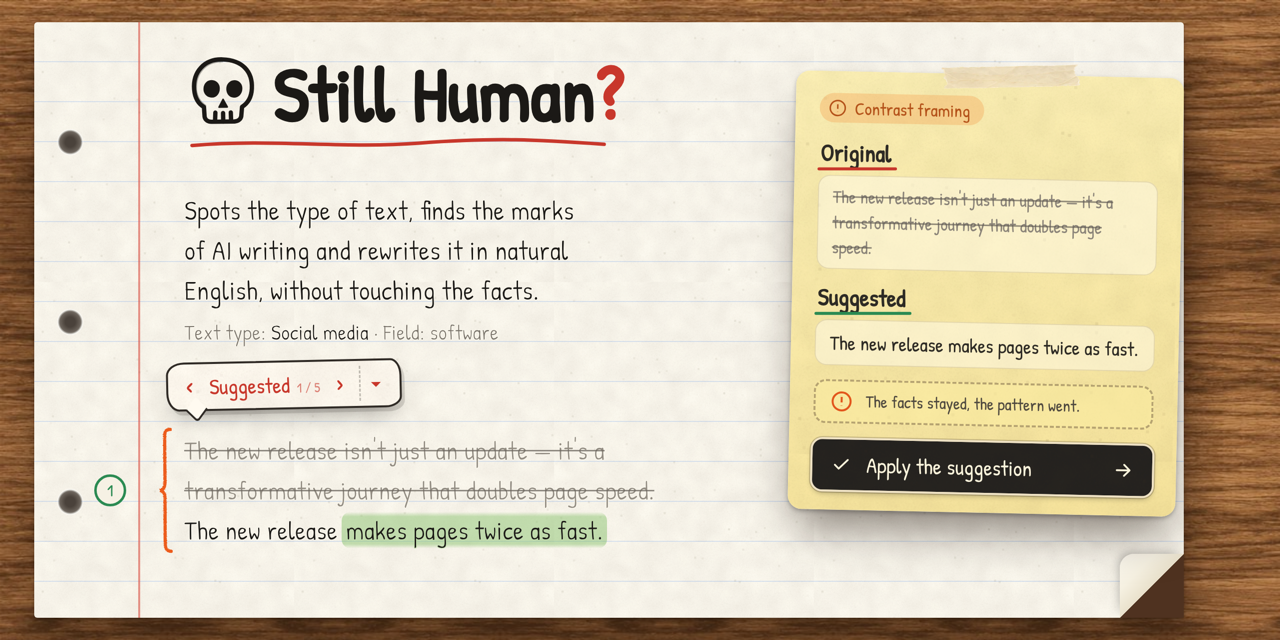
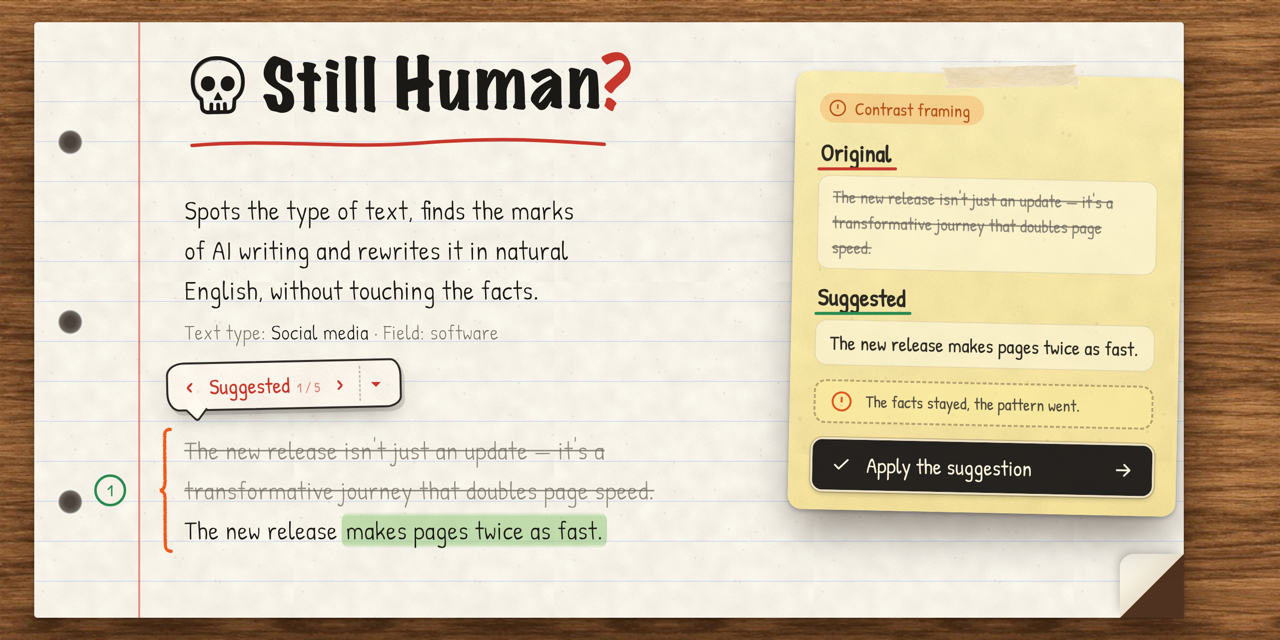
Preview on first use, then as the user chose
The first time the skill is used it opens the review page without asking, and a taped note on the page asks how it should open from now on: every time, ask first (opening long texts or many changes straight away), or only when asked, which shows a chat box typing the ways to ask. A choice for the current chat alone is offered too. The choice lives in the preferences file, where step 5 reads it with bridge.py preview, and the page's settings have a Preview line to change it. The page title is back in Marker Felt, on the page, the covers and the screenshots.

Changed region(s): [[0.125, 0.0625, 0.5, 0.2188]]

diff --git a/notebook/template.html b/notebook/template.html
@@ -452,7 +452,8 @@ body { background: radial-gradient(ellipse at 40% 30%, rgba(255, 214, 160, .10),
 .shadow { display: none; }
 
 /* header */
-.product { font: 700 54px/1.05 var(--font-hand); transform: none; letter-spacing: .2px; -webkit-text-stroke: .6px currentColor; }
+/* the title keeps its felt-tip marker, the product's own lettering; the rest of the page is in the handwriting */
+.product { font: 700 50px/1.1 var(--hand-title); transform: rotate(-.6deg); letter-spacing: .3px; }
 .product .skull { width: 1.05em; height: 1.12em; transform: none; }
 .underline-squiggle { width: 410px; height: 12px; margin: 0 0 14px 6px; opacity: .9; }
 .icon-button { color: #5e5a54; opacity: .75; }
@@ -575,6 +576,45 @@ body { background: radial-gradient(ellipse at 40% 30%, rgba(255, 214, 160, .10),
   .product { font-size: 32px; }
   .margin-note { display: none; }
 }
+/* the first page: a taped note asks how the preview should open from now on */
+.welcome { position: fixed; inset: 0; z-index: 70; display: flex; align-items: safe center; justify-content: center; padding: 30px 20px;
+  overflow-y: auto; background: rgba(32, 20, 10, .38); }
+.welcome[hidden] { display: none; }
+.welcome-card { position: relative; width: min(540px, 100%); flex: none; padding: 28px 30px 24px; border-radius: 14px; font: 19px/1.4 var(--ui-font);
+  color: #2d2a24; background-image: var(--grain), linear-gradient(170deg, #fbefb4 0%, #f6e39b 100%);
+  box-shadow: 0 2px 4px rgba(0, 0, 0, .25), 0 30px 60px -12px rgba(20, 8, 0, .6); transform: rotate(-.6deg); animation: welcome-in .28s cubic-bezier(.2, .7, .2, 1); }
+.welcome-card::before { content: ""; position: absolute; top: -15px; left: 50%; width: 150px; height: 34px; transform: translateX(-50%) rotate(2deg);
+  background: var(--tape-image, linear-gradient(180deg, rgba(232, 222, 196, .92), rgba(214, 203, 175, .9))) center / 100% 100% no-repeat; }
+.welcome-close { position: absolute; top: 12px; right: 16px; border: 0; background: none; font: 300 32px/1 var(--ui-font); color: #2d2a24; cursor: pointer; }
+.welcome .card-h { display: table; position: relative; margin: 4px 40px 10px 2px; font: 700 26px/1.15 var(--ui-font); }
+.welcome .card-h::after { content: ""; position: absolute; left: -3px; right: -6px; bottom: -4px; height: 3px; border-radius: 3px; background: #c8372b; transform: rotate(-1.2deg); }
+.welcome-intro { margin: 14px 0 16px; color: #4f493f; }
+.welcome-options { display: grid; gap: 10px; }
+.welcome-option { display: grid; gap: 2px; text-align: left; padding: 10px 16px; border-radius: 12px; border: 2px solid #2b2621; background: #f7ecd2 var(--grain);
+  color: #2d2a24; cursor: pointer; font: inherit; }
+.welcome-option b { font: 700 22px/1.2 var(--ui-font); }
+.welcome-option span { font-size: 16.5px; line-height: 1.35; color: rgba(43, 41, 37, .72); }
+.welcome-option:hover, .welcome-option:focus-visible { background-color: #f1e3c2; outline: none; box-shadow: 0 0 0 3px rgba(43, 41, 37, .15); }
+.welcome-chat { margin: 16px 0 0; font-size: 16.5px; color: rgba(43, 41, 37, .72); }
+.welcome-chat button { border: 0; background: none; padding: 0; font: inherit; color: #2c5fc9; text-decoration: underline; text-underline-offset: 3px; cursor: pointer; }
+.chat-demo { display: flex; align-items: center; min-height: 58px; margin: 0 0 12px; padding: 10px 10px 10px 18px; border-radius: 18px; background: #fffdf7;
+  border: 1.6px solid rgba(43, 41, 37, .3); box-shadow: inset 0 1px 3px rgba(0, 0, 0, .08); font: 23px/1.3 var(--ui-font); }
+.chat-demo .caret { width: 2px; height: 1.1em; margin-left: 1px; background: #2d2a24; animation: caret 1s steps(1) infinite; }
+.chat-demo .send { display: grid; place-items: center; width: 34px; height: 34px; margin-left: auto; border-radius: 50%; background: #2b2a27; color: #fbf4dc; }
+.chat-demo .send svg { width: 18px; height: 18px; fill: none; stroke: currentColor; stroke-width: 2.2; stroke-linecap: round; stroke-linejoin: round; }
+.welcome-examples { display: flex; flex-wrap: wrap; gap: 8px; margin: 0 0 14px; }
+.welcome-examples span { padding: 3px 12px; border-radius: 999px; background: rgba(255, 252, 236, .7); border: 1px solid rgba(120, 96, 40, .25); font-size: 18px; }
+.welcome-note { margin: 0 0 18px; font-size: 16px; color: rgba(43, 41, 37, .72); }
+.welcome-done { display: block; width: 100%; padding: 12px 18px; border: 0; border-radius: 10px; cursor: pointer; color: #fbf4dc; font: 22px/1.2 var(--ui-font);
+  background: #24221f var(--grain); box-shadow: 0 0 0 2px #efe2c4, 0 0 0 3px rgba(60, 48, 30, .25), 0 3px 6px rgba(0, 0, 0, .3); }
+.welcome-done:hover { background-color: #34312c; }
+.welcome-done:focus { outline: none; }
+.welcome-done:focus-visible { box-shadow: 0 0 0 2px #efe2c4, 0 0 0 5px rgba(43, 41, 37, .35); }
+@keyframes caret { 50% { opacity: 0; } }
+@keyframes welcome-in { from { opacity: 0; transform: translateY(10px) rotate(-.6deg); } }
+@media (prefers-reduced-motion: reduce) { .welcome-card, .chat-demo .caret { animation: none; } }
+@media print { .welcome { display: none !important; } }
+
 /* the texture pack: tape and highlighter images when the page has them, drawn shapes when not */
 .sticky-note::before { background: var(--tape-image, linear-gradient(180deg, rgba(232, 222, 196, .92), rgba(214, 203, 175, .9))) center / 100% 100% no-repeat; }
 .divider { background: var(--marker-image, none) center / 100% 15px no-repeat; }
@@ -720,6 +760,14 @@ body { background: radial-gradient(ellipse at 40% 30%, rgba(255, 214, 160, .10),
         <button class="option" type="button" data-theme-pick="dark">{{settings.theme_dark}}</button>
       </div>
     </div>
+    <div class="setting-row" id="preview-section" hidden>
+      <span class="setting-name">{{settings.preview}}</span>
+      <div class="setting-options">
+        <button class="option" type="button" data-preview-pick="always">{{settings.preview_always}}</button>
+        <button class="option" type="button" data-preview-pick="ask">{{settings.preview_ask}}</button>
+        <button class="option" type="button" data-preview-pick="request">{{settings.preview_request}}</button>
+      </div>
+    </div>
     <div class="setting-row" id="engine-section" hidden>
       <span class="setting-name">{{settings.suggestions}}</span>
       <div class="setting-options">
@@ -733,6 +781,29 @@ body { background: radial-gradient(ellipse at 40% 30%, rgba(255, 214, 160, .10),
     <div class="setting-row full">
       <span class="setting-name">{{settings.about}}</span>
       <p class="setting-note" id="meta"></p>
+    </div>
+  </div>
+  <div class="welcome" id="welcome" role="dialog" aria-modal="true" aria-labelledby="welcome-title" hidden>
+    <div class="welcome-card">
+      <button class="welcome-close" id="welcome-close" type="button" aria-label="{{common.close}}">×</button>
+      <div id="welcome-ask">
+        <h2 class="card-h" id="welcome-title">{{welcome.title}}</h2>
+        <p class="welcome-intro">{{welcome.intro}}</p>
+        <div class="welcome-options">
+          <button class="welcome-option" type="button" data-preview-choice="always"><b>{{welcome.always}}</b><span>{{welcome.always_hint}}</span></button>
+          <button class="welcome-option" type="button" data-preview-choice="ask"><b>{{welcome.ask}}</b><span>{{welcome.ask_hint}}</span></button>
+          <button class="welcome-option" type="button" data-preview-choice="request"><b>{{welcome.request}}</b><span>{{welcome.request_hint}}</span></button>
+        </div>
+        <p class="welcome-chat" id="welcome-chat" hidden>{{welcome.chat}} <button type="button" data-preview-chat="on">{{welcome.chat_on}}</button> · <button type="button" data-preview-chat="off">{{welcome.chat_off}}</button></p>
+      </div>
+      <div id="welcome-how" hidden>
+        <h2 class="card-h">{{welcome.how_title}}</h2>
+        <p class="welcome-intro">{{welcome.how_intro}}</p>
+        <div class="chat-demo" aria-hidden="true"><span id="chat-typed"></span><span class="caret"></span><span class="send"><svg viewBox="0 0 24 24"><path d="M12 19V5M6 11l6-6 6 6"/></svg></span></div>
+        <div class="welcome-examples" id="welcome-examples"></div>
+        <p class="welcome-note">{{welcome.how_note}}</p>
+        <button class="welcome-done" id="welcome-done" type="button">{{welcome.done}}</button>
+      </div>
     </div>
   </div>
   <footer class="page-foot" id="page-foot" aria-label="{{dock.label}}">
@@ -790,7 +861,8 @@ body { background: radial-gradient(ellipse at 40% 30%, rgba(255, 214, 160, .10),
 
   // preferences (paper, font, theme, suggestion engine) belong to the user, not the document: valid on every page and live session
   var PREF_KEY = PRODUCT.slug + ":preferences";
-  var VALID = { paper: ["lined", "grid", "plain"], type: ["hand", "airy", "soft", "book"], theme: ["", "light", "dark"], engine: ["auto", "agent", "fork", "stateless"] };
+  var VALID = { paper: ["lined", "grid", "plain"], type: ["hand", "airy", "soft", "book"], theme: ["", "light", "dark"], engine: ["auto", "agent", "fork", "stateless"],
+    preview: ["always", "ask", "request"] };
   function cleanPrefs(p) {
     var c = {};
     if (!p || typeof p !== "object") return c;
@@ -2010,7 +2082,62 @@ body { background: radial-gradient(ellipse at 40% 30%, rgba(255, 214, 160, .10),
   }
   document.querySelectorAll("[data-theme-pick]").forEach(function (b) { b.addEventListener("click", function () { prefs.theme = b.getAttribute("data-theme-pick"); savePrefs(); applyTheme(); }); });
 
+  // how the page opens after a rewrite. The agent reads it from the preferences file (bridge.py preview) before it opens the
+  // next page, so it is only offered with the bridge, which writes that file
+  function applyPreview() { markPicked("data-preview-pick", prefs.preview || ""); }
+  document.querySelectorAll("[data-preview-pick]").forEach(function (b) {
+    b.addEventListener("click", function () { prefs.preview = b.getAttribute("data-preview-pick"); savePrefs(); applyPreview(); });
+  });
+  if (LIVE) $("preview-section").hidden = false;
+  applyPreview();
+  // the first page opens on its own and asks once. Closing it without an answer keeps the old way: ask in the chat
+  var welcome = $("welcome"), typing = null;
+  function closeWelcome() {
+    if (welcome.hidden) return;
+    if (!prefs.preview) { prefs.preview = "ask"; savePrefs(); applyPreview(); }
+    welcome.hidden = true; clearTimeout(typing);
+  }
+  // "only when I ask": a chat box types the ways to ask, one after the other
+  function showHow() {
+    $("welcome-ask").hidden = true; $("welcome-how").hidden = false;
+    var examples = msg("welcome.examples").split("|"), typed = $("chat-typed"), list = $("welcome-examples");
+    list.textContent = "";
+    examples.forEach(function (x) { list.appendChild(el("span", "", x)); });
+    $("welcome-done").focus();
+    if (window.matchMedia && matchMedia("(prefers-reduced-motion: reduce)").matches) { typed.textContent = examples[0]; return; }
+    var i = 0, n = 0, erasing = false;
+    (function tick() {
+      var word = examples[i];
+      n += erasing ? -1 : 1;
+      typed.textContent = word.slice(0, n);
+      if (!erasing && n === word.length) { erasing = true; typing = setTimeout(tick, 1600); }
+      else if (erasing && n === 0) { erasing = false; i = (i + 1) % examples.length; typing = setTimeout(tick, 500); }
+      else typing = setTimeout(tick, erasing ? 32 : 80 + Math.random() * 70);
+    })();
+  }
+  document.querySelectorAll("[data-preview-choice]").forEach(function (b) {
+    b.addEventListener("click", function () {
+      prefs.preview = b.getAttribute("data-preview-choice"); savePrefs(); applyPreview();
+      if (prefs.preview === "request") showHow(); else { closeWelcome(); toast(msg("welcome.saved"), 3200); }
+    });
+  });
+  document.querySelectorAll("[data-preview-chat]").forEach(function (b) {
+    b.addEventListener("click", function () {
+      var choice = b.getAttribute("data-preview-chat");
+      api("/api/preview-chat", { method: "POST", body: JSON.stringify({ choice: choice }) }).catch(function () {});
+      if (choice === "off") showHow(); else { closeWelcome(); toast(msg("welcome.saved_chat"), 3200); }
+    });
+  });
+  $("welcome-close").addEventListener("click", closeWelcome);
+  $("welcome-done").addEventListener("click", closeWelcome);
+  welcome.querySelector(".welcome-card").addEventListener("click", function (e) { e.stopPropagation(); });
+  if (LIVE && !(LIVE.preferences && LIVE.preferences.preview)) {
+    $("welcome-chat").hidden = !LIVE.has_session;
+    setTimeout(function () { welcome.hidden = false; welcome.querySelector(".welcome-option").focus(); }, 500);
+  }
+
   document.addEventListener("keydown", function (e) {
+    if (!welcome.hidden) { if (e.key === "Escape") closeWelcome(); return; }
     var t = e.target.tagName;
     if (t === "TEXTAREA" || t === "INPUT" || t === "SELECT" || e.metaKey || e.ctrlKey || e.altKey) { if (e.key === "Escape") e.target.blur(); return; }
     if (e.key === "p") { e.preventDefault(); setClean(!clean); return; }

diff --git a/notebook/bridge.py b/notebook/bridge.py
@@ -18,6 +18,8 @@ Commands (run by the agent):
   python3 bridge.py reply --request N --suggestion "..." [--suggestion "..."]
   python3 bridge.py status
   python3 bridge.py close
+  python3 bridge.py preview [--set always|ask|request] [--chat on|off|clear]
+             prints what to do with the page after a rewrite: first, always, ask or request
 
 Security: the server binds to 127.0.0.1 only, requires a per-session token on every request
 and checks the Host header. Forked and stateless calls cannot use tools (--tools "" for Claude,
@@ -45,7 +47,9 @@ import urllib.request
 import webbrowser
 
 VALID_PREFERENCES = {"paper": {"lined", "grid", "plain"}, "type": {"hand", "airy", "soft", "book"},
-                     "theme": {"", "light", "dark"}, "engine": {"auto", "agent", "fork", "stateless"}}
+                     "theme": {"", "light", "dark"}, "engine": {"auto", "agent", "fork", "stateless"},
+                     "preview": {"always", "ask", "request"}}
+PREVIEW_CHATS = 30           # choices made for single chat sessions that are kept, newest last
 ENGINES = ("agent", "fork", "stateless")
 IDLE_SHUTDOWN = 3 * 60 * 60  # seconds
 LISTENING_GRACE = 25         # the agent counts as listening for this many seconds after its last wait call
@@ -88,20 +92,58 @@ def read_preferences():
 PREFERENCES_LOCK = threading.Lock()
 
 
+def _store_preferences(data):
+    os.makedirs(os.path.dirname(PREFERENCES_FILE), exist_ok=True)
+    tmp = PREFERENCES_FILE + ".tmp"
+    with open(tmp, "w", encoding="utf-8") as f:
+        json.dump(data, f, ensure_ascii=False)
+    os.replace(tmp, PREFERENCES_FILE)
+
+
+def _known(current):
+    """The stored preferences without keys an older version left behind."""
+    keep = set(VALID_PREFERENCES) | {"time", "preview_chats"}
+    return {k: v for k, v in (current or {}).items() if k in keep}
+
+
 def write_preferences(data):
-    """Writes the preferences. Looks at the timestamp so an older request never overwrites a newer one."""
+    """Writes the preferences the page sends. Keys it leaves out keep their stored value, and the timestamp makes sure
+    an older request never overwrites a newer one."""
     clean = {k: data[k] for k, allowed in VALID_PREFERENCES.items() if data.get(k) in allowed}
     clean["time"] = data["time"] if isinstance(data.get("time"), (int, float)) else time.time() * 1000
     with PREFERENCES_LOCK:
-        current = read_preferences() or {}
+        current = _known(read_preferences())
         if (current.get("time") or 0) > clean["time"]:
             return current
-        os.makedirs(os.path.dirname(PREFERENCES_FILE), exist_ok=True)
-        tmp = PREFERENCES_FILE + ".tmp"
-        with open(tmp, "w", encoding="utf-8") as f:
-            json.dump(clean, f, ensure_ascii=False)
-        os.replace(tmp, PREFERENCES_FILE)
-    return clean
+        current.update(clean)
+        _store_preferences(current)
+    return current
+
+
+def set_preview(mode=None, chat=None, choice=None):
+    """Saves what happens with the review page after a rewrite: the default (always, ask or request), or a choice for
+    one chat session only (on or off; None forgets it)."""
+    with PREFERENCES_LOCK:
+        current = _known(read_preferences())
+        if mode:
+            current["preview"] = mode
+            current["time"] = time.time() * 1000
+        if chat:
+            chats = {k: v for k, v in (current.get("preview_chats") or {}).items() if k != chat}
+            if choice:
+                chats[chat] = choice
+            current["preview_chats"] = dict(list(chats.items())[-PREVIEW_CHATS:])
+        _store_preferences(current)
+    return current
+
+
+def preview_mode(chat=None):
+    """first (nothing chosen yet), always, ask or request. A choice made for this chat session comes before the default."""
+    prefs = read_preferences() or {}
+    choice = (prefs.get("preview_chats") or {}).get(chat) if chat else None
+    if choice in ("on", "off"):
+        return "always" if choice == "on" else "request"
+    return prefs.get("preview") if prefs.get("preview") in VALID_PREFERENCES["preview"] else "first"
 
 
 def read_config():
@@ -404,6 +446,15 @@ def make_server(info, page_html):
                     return self._json(200, write_preferences(data))
                 except Exception as e:
                     return self._json(500, {"error": str(e)})
+            if path == "/api/preview-chat":
+                if not info.get("session"):
+                    return self._json(409, {"error": t("bridge.preview_no_chat")})
+                choice = data.get("choice") if data.get("choice") in ("on", "off") else None
+                try:
+                    set_preview(chat=info["session"], choice=choice)
+                    return self._json(200, {"choice": choice})
+                except Exception as e:
+                    return self._json(500, {"error": str(e)})
             if path == "/api/close":
                 self._json(200, {"status": "closing"})
                 threading.Thread(target=self.server.shutdown, daemon=True).start()
@@ -599,12 +650,25 @@ def main(argv=None):
     p.add_argument("--session")
     p = sub.add_parser("close", help="close the bridge")
     p.add_argument("--session")
+    p = sub.add_parser("preview", help="what to do with the review page after a rewrite: first, always, ask or request")
+    p.add_argument("--set", choices=sorted(VALID_PREFERENCES["preview"]), help="save the default")
+    p.add_argument("--chat", choices=["on", "off", "clear"], help="open always (on) or never (off) in this chat session only")
     p = sub.add_parser("_serve")
     p.add_argument("folder")
     a = ap.parse_args(argv)
 
     if a.command == "_serve":
         return _serve(a.folder)
+    if a.command == "preview":
+        chat = session_id(guess_agent(), os.getcwd())
+        if a.set:
+            set_preview(mode=a.set)
+        if a.chat:
+            if not chat:
+                sys.exit(t("bridge.preview_no_chat"))
+            set_preview(chat=chat, choice=None if a.chat == "clear" else a.chat)
+        print(preview_mode(chat))
+        return
     if a.command == "start":
         info, address = start(a.page, a.agent, a.session_id, a.open)
         print(t("cli.live", address=address))

diff --git a/SKILL.md b/SKILL.md
@@ -122,9 +122,24 @@ Look for your own tics too:
 - Does every closing land on a question?
 - Did you add anything that breaks fidelity to the facts?
 
-**5. Deliver, then ask about the preview.** Deliver the text first, in the output format below. Don't make the user wait for anything: the text and the table always come straight away.
+**5. Deliver, then decide about the preview.** Deliver the text first, in the output format below. Don't make the user wait for anything: the text and the table always come straight away.
 
-After a light touch or a full rewrite, ask in the chat, with options, whether the user wants to see the review page:
+After a light touch or a full rewrite, check the user's preview preference:
+```bash
+python3 <skill-dir>/scripts/bridge.py preview
+```
+The script prints one word:
+
+| Output | What you do |
+|---|---|
+| `first` | The skill is being used for the first time. Open the page live without asking (see Review page) and say in the chat: "This is your first time, so I opened the review page on my own. You can choose what happens from now on in the note on the page." The page asks that itself. |
+| `always` | Open the page live without asking and put its address in the chat. |
+| `ask` | Ask the multiple-choice question below. But if the text is over 300 words, has more than 8 changes, or leaves the user many decisions (questions in square brackets, options close to each other), open it without asking and say why in one line: "The text is long, so I opened the page; the changes are easier to go through there." |
+| `request` | Don't open it and don't ask. The page opens only when the user asks. |
+
+If the script doesn't run (no Python), act as for `ask`.
+
+The multiple-choice question:
 - **If you have a multiple-choice question tool** (AskUserQuestion in Claude Code), use it. Question: "Do you want to see the changes on the review page?" Options, in this order:
   - "Preview (Recommended)": the review page opens in the browser and the decisions are made there.
   - "No thanks": the text stays as it is.
@@ -132,8 +147,15 @@ After a light touch or a full rewrite, ask in the chat, with options, whether th
 
 If the user picks "Preview", or types "preview" later, open the page live (see Review page), put its address in the chat, then start listening. If they pick "No thanks" or move on to something else, don't ask again.
 
-Don't ask when:
-- The user already asked for the page ("show me on the page", "preview"). Deliver with the page.
+The user can change the preference in the chat too. When they do, run the same script, then confirm in one line:
+- "always open the preview": `bridge.py preview --set always`
+- "ask me about the preview first": `bridge.py preview --set ask`
+- "only open the preview when I ask", "stop opening the preview": `bridge.py preview --set request`
+- "always open it in this chat": `bridge.py preview --chat on`. "Don't open the preview in this chat": `bridge.py preview --chat off`. These touch only this chat. If the script can't identify the chat (Gemini CLI) it fails; then remember the choice yourself for the rest of the chat.
+
+Whatever the preference, open the page when the user says "preview", "show it on the page" or "open the changes on the page". If they already asked for the page, deliver with it without checking the preference.
+
+Don't open the page or ask when:
 - The user said they don't want the page, or only wants the text.
 - The mode is diagnose, write from scratch or feedback round.
 
@@ -355,7 +377,7 @@ The default delivery is below. If the user wants only the text, give only the te
 
 ## Review page
 
-If the user picked "Preview" after the delivery, asked for the page, or typed "preview" later, build an interactive review page. You need to be able to run Python and write files.
+If the preference in step 5 opens the page, the user picked "Preview" after the delivery, asked for the page, or typed "preview" later, build an interactive review page. You need to be able to run Python and write files.
 
 The page is a single HTML file that looks like a notebook sheet on a wooden desk:
 - In the text, changed words sit on a green highlighter. Once the user approves a change, its original stays above the new text, struck through. Where something was deleted, a small "[deleted]" note sits. Questions in square brackets are orange.
@@ -502,7 +524,7 @@ The greeting "Hi team," stays as it was. It's the writer's choice, not a tell.
 | `references/idioms.md` | Before using an idiom, or when you spot a dead cliché or a mangled idiom |
 | `references/sources.md` | To show a user where the rules come from |
 | `scripts/audit.py` | Measurement, text type guess, genre and field guides (step 1), before/after comparison (step 4). `--save` keeps the text, `--guide` prints guides, `--profile` prints only the guess |
-| `scripts/review.py` | The interactive review page (if the user says "Preview" in step 5), with the bridge through `--live` |
-| `scripts/bridge.py` | The live bridge: `wait`, `reply`, `status`, `close` |
+| `scripts/review.py` | The interactive review page (from the preference in step 5, or when the user asks), with the bridge through `--live` |
+| `scripts/bridge.py` | The live bridge: `wait`, `reply`, `status`, `close`. `preview` tells and changes the preview preference (step 5) |
 | `scripts/install.py` | Setup: links the skill into agents, configures the bridge, runs a check |
 | `notebook/`, `notebook.json` | The shared core of the review page and the bridge, and the skill's identity. Copied from the notebook-review repository; you don't need to read or change them. `review.py` and `bridge.py` use them |

diff --git a/README.md b/README.md
@@ -79,7 +79,12 @@ The skill changes the skeleton first, then fills the gap with English's own tool
 
 **Every change has a reason.** Each delivery comes with a change table: before, after, why. The reasons come from a coded pattern catalog, so they stay consistent.
 
-**You have the last word.** The text and the change table arrive straight away. Then the skill asks in the chat: "Do you want to see the changes on the review page?" The options are "Preview" and "No thanks". Claude Code shows them as clickable options; in Codex and Gemini CLI you just type the answer.
+**You have the last word.** The text and the change table arrive straight away. The first time you use the skill, the review page opens on its own too, and a note on it asks what should happen from then on:
+- **Open it every time:** the page opens after every rewrite.
+- **Ask me first:** the skill asks in the chat: "Do you want to see the changes on the review page?" Claude Code shows clickable options; in Codex and Gemini CLI you just type the answer. For a long text or many changes it opens the page without asking.
+- **Only when I ask:** the page never opens on its own. Write "preview", "show it on the page" or "open the changes on the page" in the chat and it opens. The note shows this with a small typing animation.
+
+For one chat only, you can also say "always open it in this chat" or "don't open the preview in this chat". Your choice is kept in `~/.config/still-human/preferences.json`. Change it any time on the Preview line in the page's settings, or by saying something like "always open the preview" in the chat.
 
 If you choose to preview, the changes open on a notebook sheet lying on a wooden desk:
 - Changed words sit on a green highlighter. Once you approve a change, its original stays just above the new text, struck through. Where something was deleted, a small "[deleted]" note sits.
